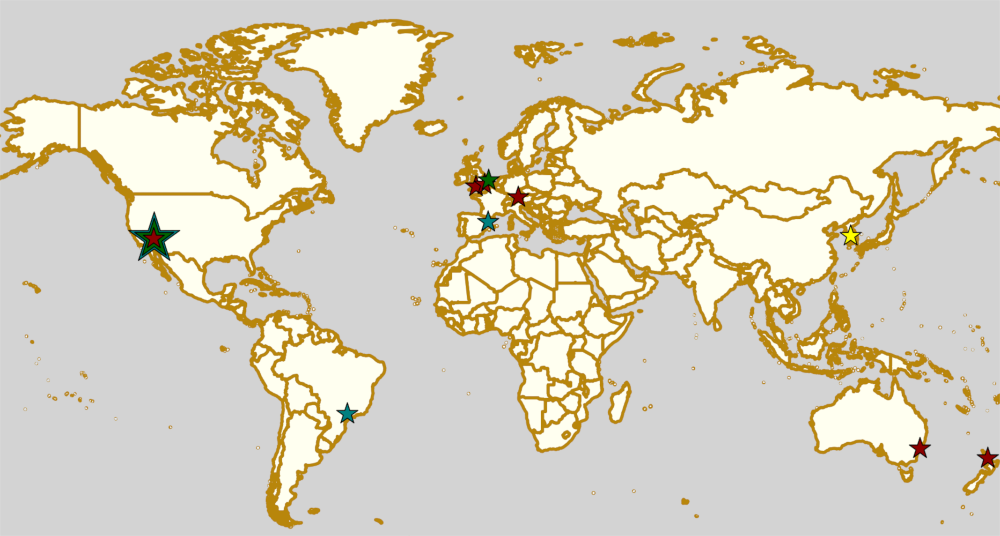
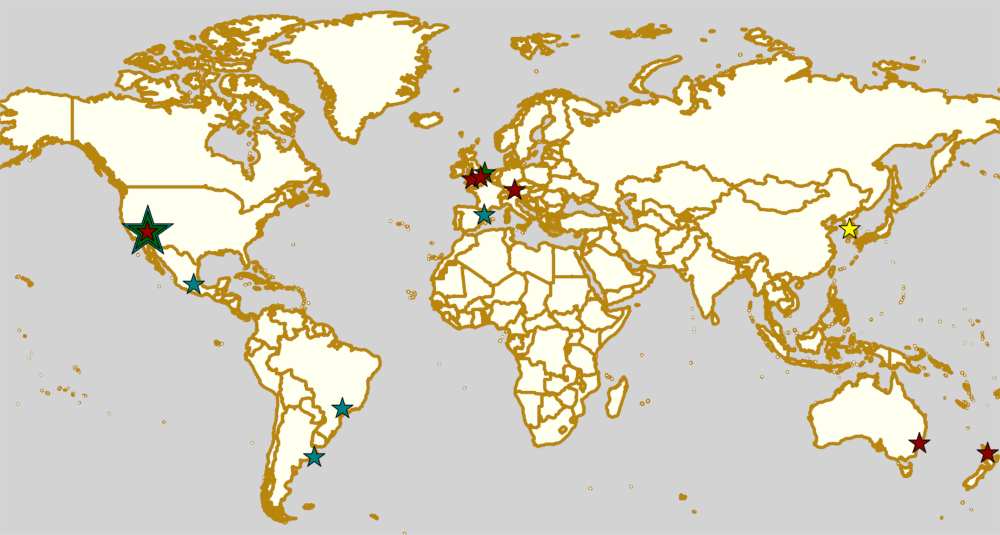
Late additions to 20 July highlights

diff --git a/output/posts/highlights/2019/weekendhighlights-20072019/index.html b/output/posts/highlights/2019/weekendhighlights-20072019/index.html
@@ -25,10 +25,12 @@
                [<a href="index.rst" id="sourcelink">Source</a>]
         </span>
         <br><span class="tags">Tags: 
+                    <a class="tag" href="../../../../categories/argentine-roller-derby/"><span>argentine roller derby</span></a>
                     <a class="tag" href="../../../../categories/australian-roller-derby/"><span>australian roller derby</span></a>
                     <a class="tag" href="../../../../categories/brazilian-roller-derby/"><span>brazilian roller derby</span></a>
                     <a class="tag" href="../../../../categories/british-roller-derby/"><span>british roller derby</span></a>
                     <a class="tag" href="../../../../categories/german-roller-derby/"><span>german roller derby</span></a>
+                    <a class="tag" href="../../../../categories/mexican-roller-derby/"><span>mexican roller derby</span></a>
                     <a class="tag" href="../../../../categories/national-tournaments/"><span>national tournaments</span></a>
                     <a class="tag" href="../../../../categories/new-zealand-roller-derby/"><span>new zealand roller derby</span></a>
                     <a class="tag" href="../../../../categories/roller-derby-sevens/"><span>roller derby sevens</span></a>
@@ -155,6 +157,20 @@ get themselves an actual webpage [we can help host one if you need help]).</p>
 <p><a class="reference external" href="https://www.instagram.com/capivaras.rollerderby/">Capivaras Roller Derby</a> host a fundraising party event, with food and drinks (including what might be mulled wine?), plus a trampoline for kids. This event ends the Brasilian season, and raises money for the sport.</p>
 <p>Event starts: 1700 Saturday</p>
 <p>Venue: Clube Delphi, Piracicaba, Brazil</p>
+</div>
+<div class="section" id="sat-mar-del-plata-argentina">
+<h2>Sat: Mar del Plata, Argentina</h2>
+<p><a class="reference external" href="https://www.facebook.com/events/2320291908058942/permalink/2366326420122157/">[FACEBOOK LINK]</a></p>
+<p><a class="reference external" href="https://www.instagram.com/rebeldesdelasfalto/">Rebeldes del Asfalto</a> have a stall at the "Femme Fatale: Festival of Art", selling merch, promoting roller derby and providing a buffet as well! This is the first edition of the "Femme Fatale" art festival, intended to promote female-centered art, with live music, tattoos, and art exhibitions.</p>
+<p>Event starts: 2000 Saturday</p>
+<p>Venue: Liber Art, Moreno 2742, Mar del Plata, Argentina</p>
+</div>
+<div class="section" id="sat-mexico-city-mexico">
+<h2>Sat: Mexico City, Mexico</h2>
+<p><a class="reference external" href="https://www.facebook.com/events/1275140542648471/">[FACEBOOK LINK]</a></p>
+<p><a class="reference external" href="https://www.instagram.com/fugazrollerderby/">Fugaz Roller Derby</a> host a fundraising Punk Rock &amp; Pizza event, woth an array of Mexican Punk, Death metal and Grindcore bands playing live music. This event raises funds for Fugaz' attendance at the 2019 Mexican D1 playoffs in Chihuahua (about which later in the week).</p>
+<p>Event starts: 1500 Saturday</p>
+<p>Venue: TONY EL GORDO, Mixtecas 499, Mexico City, Mexico</p>
 <div class="section" id="special-edition-addition-rollercon">
 <h3>Special edition addition: ROLLERCON</h3>
 <p>Everyone is probably very aware that this week is Rollercon 2019, in Las Vegas, NV.

diff --git a/output/index.html b/output/index.html
@@ -23,10 +23,12 @@
                 <span class="authordate">
                     Posted: by <b>aoanla</b> <time class="published" datetime="2019-07-16T14:00:00+01:00">2019-07-16 14:00</time></span>
                 <br><span class="tags">Tags: 
+                            <a class="tag" href="categories/argentine-roller-derby/"><span>argentine roller derby</span></a>
                             <a class="tag" href="categories/australian-roller-derby/"><span>australian roller derby</span></a>
                             <a class="tag" href="categories/brazilian-roller-derby/"><span>brazilian roller derby</span></a>
                             <a class="tag" href="categories/british-roller-derby/"><span>british roller derby</span></a>
                             <a class="tag" href="categories/german-roller-derby/"><span>german roller derby</span></a>
+                            <a class="tag" href="categories/mexican-roller-derby/"><span>mexican roller derby</span></a>
                             <a class="tag" href="categories/national-tournaments/"><span>national tournaments</span></a>
                             <a class="tag" href="categories/new-zealand-roller-derby/"><span>new zealand roller derby</span></a>
                             <a class="tag" href="categories/roller-derby-sevens/"><span>roller derby sevens</span></a>

diff --git a/output/categories/argentine-roller-derby/index.html b/output/categories/argentine-roller-derby/index.html
@@ -29,6 +29,9 @@
 
     </header><ul class="postlist">
 <li>
+<time class="listdate" datetime="2019-07-16T14:00:00+01:00" title="2019-07-16 14:00">2019-07-16 14:00</time><a href="../../posts/highlights/2019/weekendhighlights-20072019/" class="listtitle">Weekend Highlights: 20 July 2019</a><a></a>
+</li>
+            <li>
 <time class="listdate" datetime="2019-07-01T19:00:00+01:00" title="2019-07-01 19:00">2019-07-01 19:00</time><a href="../../posts/highlights/2019/weekendhighlights-06072019/" class="listtitle">Weekend Highlights: 06 July 2019</a><a></a>
 </li>
             <li>

diff --git a/output/categories/mexican-roller-derby/index.html b/output/categories/mexican-roller-derby/index.html
@@ -29,6 +29,9 @@
 
     </header><ul class="postlist">
 <li>
+<time class="listdate" datetime="2019-07-16T14:00:00+01:00" title="2019-07-16 14:00">2019-07-16 14:00</time><a href="../../posts/highlights/2019/weekendhighlights-20072019/" class="listtitle">Weekend Highlights: 20 July 2019</a><a></a>
+</li>
+            <li>
 <time class="listdate" datetime="2019-07-08T19:40:00+01:00" title="2019-07-08 19:40">2019-07-08 19:40</time><a href="../../posts/highlights/2019/weekendhighlights-13072019/" class="listtitle">Weekend Highlights: 13 July 2019</a><a></a>
 </li>
             <li>

diff --git a/output/posts/highlights/2019/weekendhighlights-20072019/index.rst b/output/posts/highlights/2019/weekendhighlights-20072019/index.rst
@@ -1,7 +1,7 @@
 .. title: Weekend Highlights: 20 July 2019
 .. slug: weekendhighlights-20072019
 .. date: 2019-07-16 14:00 UTC+01:00
-.. tags: weekend highlights, new zealand roller derby, british roller derby, australian roller derby, brazilian roller derby, german roller derby, spanish roller derby, rollercon, WFTDA Officiating Clinic, WFTDA World Summit, short track roller derby, tournaments, national tournaments, roller derby sevens
+.. tags: weekend highlights, new zealand roller derby, british roller derby, australian roller derby, brazilian roller derby, german roller derby, spanish roller derby, rollercon, WFTDA Officiating Clinic, WFTDA World Summit, short track roller derby, tournaments, national tournaments, roller derby sevens, argentine roller derby, mexican roller derby
 .. category:
 .. link:
 .. description:
@@ -212,6 +212,36 @@ Event starts: 1700 Saturday
 
 Venue: Clube Delphi, Piracicaba, Brazil
 
+Sat: Mar del Plata, Argentina
+--------------------------------
+
+`[FACEBOOK LINK]`__
+
+.. __: https://www.facebook.com/events/2320291908058942/permalink/2366326420122157/
+
+`Rebeldes del Asfalto`_ have a stall at the "Femme Fatale: Festival of Art", selling merch, promoting roller derby and providing a buffet as well! This is the first edition of the "Femme Fatale" art festival, intended to promote female-centered art, with live music, tattoos, and art exhibitions.
+
+.. _Rebeldes del Asfalto: https://www.instagram.com/rebeldesdelasfalto/
+
+Event starts: 2000 Saturday
+
+Venue: Liber Art, Moreno 2742, Mar del Plata, Argentina
+
+
+Sat: Mexico City, Mexico
+--------------------------------
+
+`[FACEBOOK LINK]`__
+
+.. __: https://www.facebook.com/events/1275140542648471/
+
+`Fugaz Roller Derby`_ host a fundraising Punk Rock & Pizza event, woth an array of Mexican Punk, Death metal and Grindcore bands playing live music. This event raises funds for Fugaz' attendance at the 2019 Mexican D1 playoffs in Chihuahua (about which later in the week).
+
+.. _Fugaz Roller Derby: https://www.instagram.com/fugazrollerderby/
+
+Event starts: 1500 Saturday
+
+Venue: TONY EL GORDO, Mixtecas 499, Mexico City, Mexico
 
 
 Special edition addition: ROLLERCON

diff --git a/posts/highlights/2019/wknd-20July2019.rst b/posts/highlights/2019/wknd-20July2019.rst
@@ -1,7 +1,7 @@
 .. title: Weekend Highlights: 20 July 2019
 .. slug: weekendhighlights-20072019
 .. date: 2019-07-16 14:00 UTC+01:00
-.. tags: weekend highlights, new zealand roller derby, british roller derby, australian roller derby, brazilian roller derby, german roller derby, spanish roller derby, rollercon, WFTDA Officiating Clinic, WFTDA World Summit, short track roller derby, tournaments, national tournaments, roller derby sevens
+.. tags: weekend highlights, new zealand roller derby, british roller derby, australian roller derby, brazilian roller derby, german roller derby, spanish roller derby, rollercon, WFTDA Officiating Clinic, WFTDA World Summit, short track roller derby, tournaments, national tournaments, roller derby sevens, argentine roller derby, mexican roller derby
 .. category:
 .. link:
 .. description:
@@ -212,6 +212,36 @@ Event starts: 1700 Saturday
 
 Venue: Clube Delphi, Piracicaba, Brazil
 
+Sat: Mar del Plata, Argentina
+--------------------------------
+
+`[FACEBOOK LINK]`__
+
+.. __: https://www.facebook.com/events/2320291908058942/permalink/2366326420122157/
+
+`Rebeldes del Asfalto`_ have a stall at the "Femme Fatale: Festival of Art", selling merch, promoting roller derby and providing a buffet as well! This is the first edition of the "Femme Fatale" art festival, intended to promote female-centered art, with live music, tattoos, and art exhibitions.
+
+.. _Rebeldes del Asfalto: https://www.instagram.com/rebeldesdelasfalto/
+
+Event starts: 2000 Saturday
+
+Venue: Liber Art, Moreno 2742, Mar del Plata, Argentina
+
+
+Sat: Mexico City, Mexico
+--------------------------------
+
+`[FACEBOOK LINK]`__
+
+.. __: https://www.facebook.com/events/1275140542648471/
+
+`Fugaz Roller Derby`_ host a fundraising Punk Rock & Pizza event, woth an array of Mexican Punk, Death metal and Grindcore bands playing live music. This event raises funds for Fugaz' attendance at the 2019 Mexican D1 playoffs in Chihuahua (about which later in the week).
+
+.. _Fugaz Roller Derby: https://www.instagram.com/fugazrollerderby/
+
+Event starts: 1500 Saturday
+
+Venue: TONY EL GORDO, Mixtecas 499, Mexico City, Mexico
 
 
 Special edition addition: ROLLERCON
